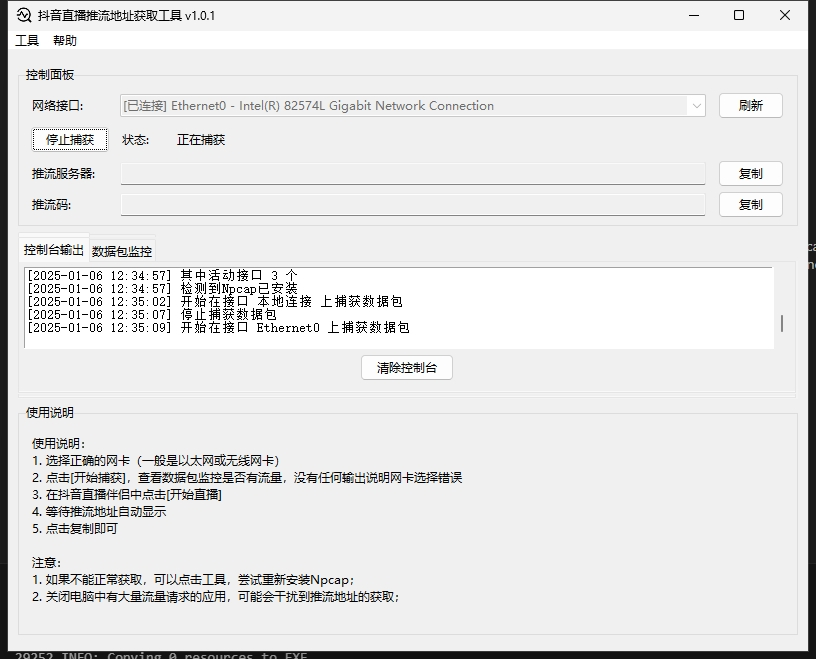
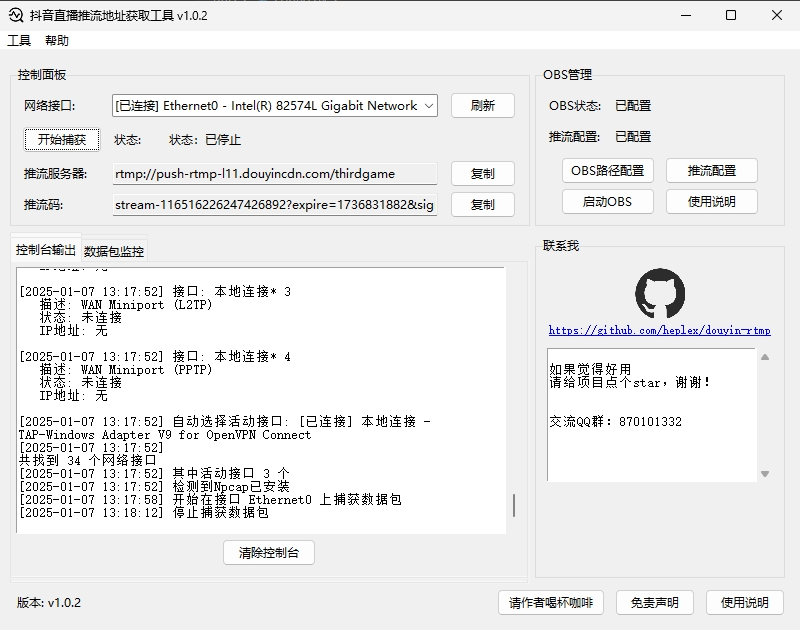
feat 增加obs自动同步配置以及拉起，优化界面布局
Former-commit-id: 42b3e2405f584a856785a0557fd7af8371978c39

diff --git a/gui/main_window.py b/gui/main_window.py
@@ -13,6 +13,7 @@ from gui.widgets import create_control_panel, create_log_panel, create_help_pane
 from utils.config import VERSION, GITHUB_CONFIG
 import threading
 from utils.version import check_for_updates
+from utils.content_config import ADVERTISEMENT_TEXT, HELP_TEXT, OBS_HELP_TEXT  # 更新导入语句
 
 def resource_path(relative_path):
     """获取资源的绝对路径"""
@@ -248,7 +249,7 @@ class StreamCaptureGUI:
         
         ttk.Button(
             obs_btn_frame2,
-            text="拉起OBS",
+            text="启动OBS",
             command=self.launch_obs,
             width=12
         ).pack(side=tk.LEFT, padx=5)
@@ -260,10 +261,69 @@ class StreamCaptureGUI:
             width=12
         ).pack(side=tk.LEFT, padx=5)
         
+        # 添加广告位面板
+        ad_frame = ttk.LabelFrame(self.main_frame, text="联系我", padding="5")
+        ad_frame.grid(row=1, column=3, sticky=(tk.W, tk.E, tk.N, tk.S), pady=5, padx=5)
+        ad_frame.columnconfigure(0, weight=1)
+        
+        # 创建Logo按钮
+        try:
+            github_icon = tk.PhotoImage(file=resource_path("assets/github.png"))
+            # 创建一个无边框的Label来显示图标
+            logo_label = ttk.Label(
+                ad_frame,
+                image=github_icon,
+                cursor="hand2"
+            )
+            logo_label.image = github_icon
+            logo_label.grid(row=0, column=0, pady=(5,2), padx=5)
+            logo_label.bind("<Button-1>", lambda e: self.open_github())
+            
+            # 调整图片大小为原来的1/4
+            github_icon = github_icon.subsample(4, 4)
+            logo_label.configure(image=github_icon)
+            logo_label.image = github_icon
+            
+            # 添加仓库地址链接
+            repo_label = ttk.Label(
+                ad_frame,
+                text=GITHUB_CONFIG['REPO_URL'],
+                cursor="hand2",
+                foreground="blue",
+                font=("", 9, "underline")
+            )
+            repo_label.grid(row=1, column=0, pady=(0,5), padx=5)
+            repo_label.bind("<Button-1>", lambda e: self.open_github())
+            
+            # 添加广告文本
+            ad_text = scrolledtext.ScrolledText(
+                ad_frame,
+                wrap=tk.WORD,
+                width=20,
+                height=10
+            )
+            ad_text.grid(row=2, column=0, sticky=(tk.W, tk.E, tk.N, tk.S), pady=5, padx=5)
+            ad_text.insert(tk.END, ADVERTISEMENT_TEXT)
+            ad_text.configure(state='disabled')  # 设置为只读
+            
+            
+            
+        except Exception as e:
+            self.logger.error(f"加载GitHub图标失败: {str(e)}")
+            # 如果图标加载失败，使用文本链接样式的Label
+            link_label = ttk.Label(
+                ad_frame,
+                text=GITHUB_CONFIG['REPO_URL'],
+                cursor="hand2",
+                foreground="blue"
+            )
+            link_label.grid(row=0, column=0, pady=5, padx=5)
+            link_label.bind("<Button-1>", lambda e: self.open_github())
+        
     def create_status_bar(self):
         """创建底栏"""
         status_frame = ttk.Frame(self.main_frame)
-        status_frame.grid(row=2, column=0, columnspan=3, sticky=(tk.W, tk.E), pady=5)
+        status_frame.grid(row=2, column=0, columnspan=4, sticky=(tk.W, tk.E), pady=5)
         
         # 左侧版本信息
         ttk.Label(
@@ -274,6 +334,14 @@ class StreamCaptureGUI:
         # 右侧按钮组
         buttons_frame = ttk.Frame(status_frame)
         buttons_frame.pack(side=tk.RIGHT)
+        
+        # 打赏按钮
+        ttk.Button(
+            buttons_frame,
+            text="请作者喝杯咖啡",
+            command=self.show_donation,
+            width=14
+        ).pack(side=tk.LEFT, padx=5)
         
         # 免责声明按钮
         ttk.Button(
@@ -293,25 +361,6 @@ class StreamCaptureGUI:
         
     def show_help(self):
         """显示使用说明弹窗"""
-        help_text = (
-            "使用说明：\n\n"
-            "1. 确保已安装 Npcap（如未安装可点击【工具】菜单进行安装）\n"
-            "2. 选择正确的网络接口（通常是当前正在使用的网络连接）\n"
-            "3. 打开抖音直播伴侣\n"
-            "4. 点击【开始捕获】按钮\n"
-            "5. 在直播伴侣中进行开播操作\n"
-            "6. 等待程序自动获取推流地址\n"
-            "7. 获取到地址后会自动停止捕获\n"
-            "8. 点击地址框后的【复制】按钮即可复制地址\n\n"
-            "注意事项：\n"
-            "· 请确保选择正确的网络接口\n"
-            "· 如果长时间未获取到地址，可以尝试停止后重新开始捕获\n"
-            "· 如遇问题请查看控制台输出的错误信息\n"
-            "· 本工具使用了网络抓包技术，可能会被杀毒软件误报\n"
-            "  这是因为抓包功能与某些恶意软件行为类似\n"
-            "  本工具完全开源，源代码可在 GitHub 查看，请放心使用"
-        )
-        
         # 创建对话框
         dialog = tk.Toplevel(self.root)
         dialog.title("使用说明")
@@ -329,7 +378,7 @@ class StreamCaptureGUI:
             pady=10
         )
         text_area.pack(expand=True, fill=tk.BOTH, padx=10, pady=10)
-        text_area.insert(tk.END, help_text)
+        text_area.insert(tk.END, HELP_TEXT)
         text_area.configure(state='disabled')  # 设置为只读
         
         # 添加确定按钮
@@ -401,14 +450,14 @@ class StreamCaptureGUI:
             f"抖音直播推流地址获取工具\n"
             f"版本：{VERSION}\n"
             f"作者：kumquat\n\n"
-            f"GitHub：{GITHUB_CONFIG['RELEASE_URL']}\n\n"
+            f"GitHub：{GITHUB_CONFIG['REPO_URL']}\n\n"
             f"本工具仅供学习交流使用"
         )
         messagebox.showinfo("关于", about_text)
         
     def open_github(self):
         """打开GitHub页面"""
-        webbrowser.open(GITHUB_CONFIG['RELEASE_URL'])
+        webbrowser.open(GITHUB_CONFIG['REPO_URL'])
         
     def clear_logs(self):
         """清除所有日志"""
@@ -845,28 +894,6 @@ class StreamCaptureGUI:
 
     def show_obs_help(self):
         """显示OBS管理面板使用说明"""
-        help_text = """OBS管理面板使用说明：
-
-1. OBS路径配置
-   - 点击后选择OBS安装目录下的obs64.exe文件
-   - 配置成功后状态会显示"已配置"
-
-2. 推流配置
-   - 点击后选择OBS配置文件夹中的service.json文件
-   - 文件位置：\n用户目录/AppData/Roaming/obs-studio/basic/profiles/
-   - 一般只有一个文件夹，多个的情况下请自行区分，点进去以后\n选择service.json文件
-   - 配置成功后状态会显示"已配置"
-
-3. 拉起OBS
-   - 需要先完成OBS路径配置
-   - 点击后会自动启动OBS程序
-   - 在已经捕获到推流地址后，会自动更新推流配置，无需手动配置
-
-4. 注意事项
-   - 首次使用请先配置OBS路径
-   - 确保OBS已正确安装并运行过
-   - 所有配置会自动保存，下次启动软件时自动加载"""
-        
         # 创建说明窗口
         help_window = tk.Toplevel()
         help_window.title("OBS管理使用说明")
@@ -883,7 +910,7 @@ class StreamCaptureGUI:
             pady=10
         )
         text_area.pack(expand=True, fill=tk.BOTH, padx=10, pady=10)
-        text_area.insert(tk.END, help_text)
+        text_area.insert(tk.END, OBS_HELP_TEXT)
         text_area.configure(state='disabled')  # 设置为只读
         
         # 窗口居中
@@ -893,3 +920,24 @@ class StreamCaptureGUI:
         x = (help_window.winfo_screenwidth() // 2) - (width // 2)
         y = (help_window.winfo_screenheight() // 2) - (height // 2)
         help_window.geometry(f'+{x}+{y}') 
+
+    def show_donation(self):
+        """显示打赏对话框"""
+        donation_window = tk.Toplevel()
+        donation_window.title("感谢支持")
+        donation_window.geometry("500x400")
+        donation_window.resizable(False, False)
+        try:
+            # 使用 resource_path 加载图片
+            coffee_icon = tk.PhotoImage(file=resource_path("assets/donate.png"))
+            img_label = ttk.Label(donation_window, image=coffee_icon)
+            img_label.image = coffee_icon  # 保持引用防止被垃圾回收
+            img_label.pack(pady=10)
+        except Exception as e:
+            self.logger.error(f"加载打赏二维码失败: {str(e)}")
+            error_label = ttk.Label(donation_window, text="二维码加载失败")
+            error_label.pack(pady=10) 
+        
+        thank_text = "无论多少都是心意，一分也是对我莫大的鼓励！谢谢您的支持！"
+        text_label = ttk.Label(donation_window, text=thank_text, wraplength=450)
+        text_label.pack(pady=10)

diff --git a/utils/content_config.py b/utils/content_config.py
@@ -1,0 +1,54 @@
+# 应用程序文本内容配置
+
+# 广告位文本
+ADVERTISEMENT_TEXT = """
+如果觉得好用\n请给项目点个star，谢谢！\n\n
+交流QQ群：870101332
+"""
+
+# 使用说明文本
+HELP_TEXT = """使用说明：
+
+1. 确保已安装 Npcap（如未安装可点击【工具】菜单进行安装）
+2. 选择正确的网络接口（通常是当前正在使用的网络连接）
+3. 打开抖音直播伴侣
+4. 点击【开始捕获】按钮
+5. 在直播伴侣中进行开播操作
+6. 等待程序自动获取推流地址
+7. 获取到地址后会自动停止捕获
+8. 点击地址框后的【复制】按钮即可复制地址
+
+注意事项：
+· 请确保选择正确的网络接口
+· 如果长时间未获取到地址，可以尝试停止后重新开始捕获
+· 如遇问题请查看控制台输出的错误信息
+· 本工具使用了网络抓包技术，可能会被杀毒软件误报
+  这是因为抓包功能与某些恶意软件行为类似
+  本工具完全开源，源代码可在 GitHub 查看，请放心使用"""
+
+# OBS使用说明文本
+OBS_HELP_TEXT = """OBS管理面板使用说明：
+
+1. OBS路径配置
+   · 点击后选择OBS安装目录下的obs64.exe文件
+   · 配置成功后状态会显示"已配置"
+
+2. 推流配置
+   · 点击后选择OBS配置文件夹中的service.json文件
+   · 文件位置：
+     用户目录/AppData/Roaming/obs-studio/basic/profiles/
+   · 一般只有一个文件夹，多个的情况下请自行区分，点进去以后
+      选择service.json文件
+   · 配置成功后状态会显示"已配置"
+
+3. 启动OBS
+   · 需要先完成OBS路径配置
+   · 点击后会自动启动OBS程序
+   · 在已经捕获到推流地址后，会自动更新推流配置，无需手动配置
+
+4. 注意事项
+   · 首次使用请先配置OBS路径
+   · 确保OBS已正确安装并运行过
+   · 所有配置会自动保存，下次启动软件时自动加载"""
+
+

diff --git a/utils/config.py b/utils/config.py
@@ -1,10 +1,11 @@
 # 版本信息
-VERSION = "v1.0.1"
+VERSION = "v1.0.2"
 
 # GitHub 相关配置
 GITHUB_CONFIG = {
     "REPO_OWNER": "heplex",
     "REPO_NAME": "douyin-rtmp",
     "API_URL": "https://api.github.com/repos/heplex/douyin-rtmp/releases/latest",
-    "RELEASE_URL": "https://github.com/heplex/douyin-rtmp/releases/latest"
+    "RELEASE_URL": "https://github.com/heplex/douyin-rtmp/releases/latest",
+    "REPO_URL": "https://github.com/heplex/douyin-rtmp"
 } 
